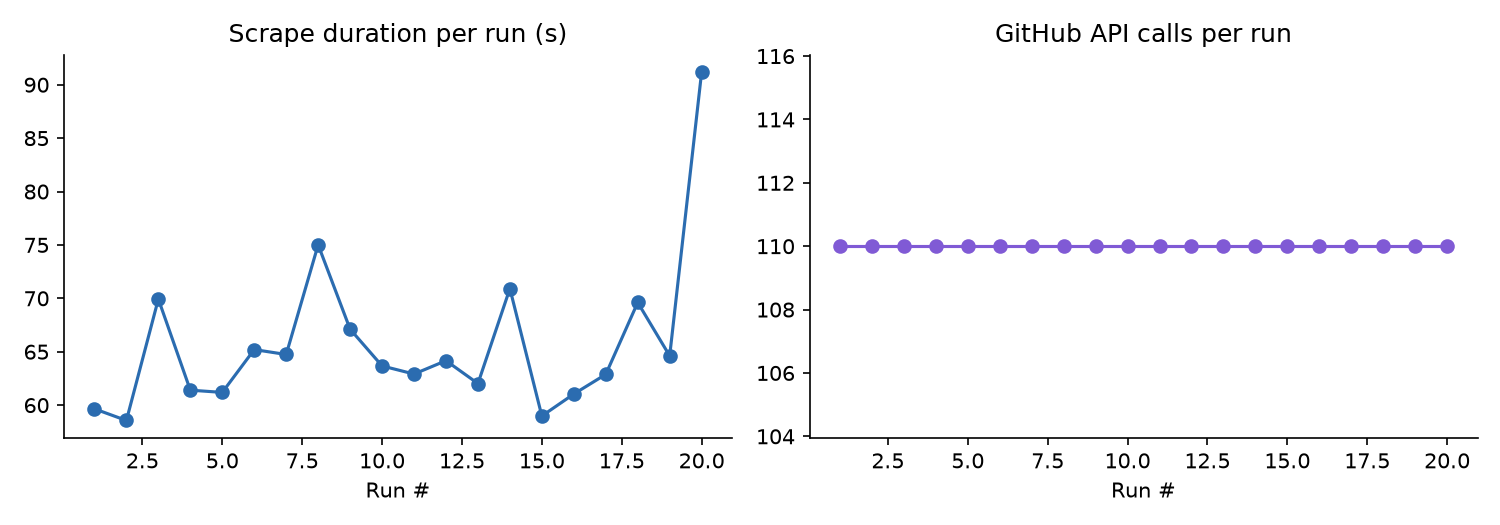
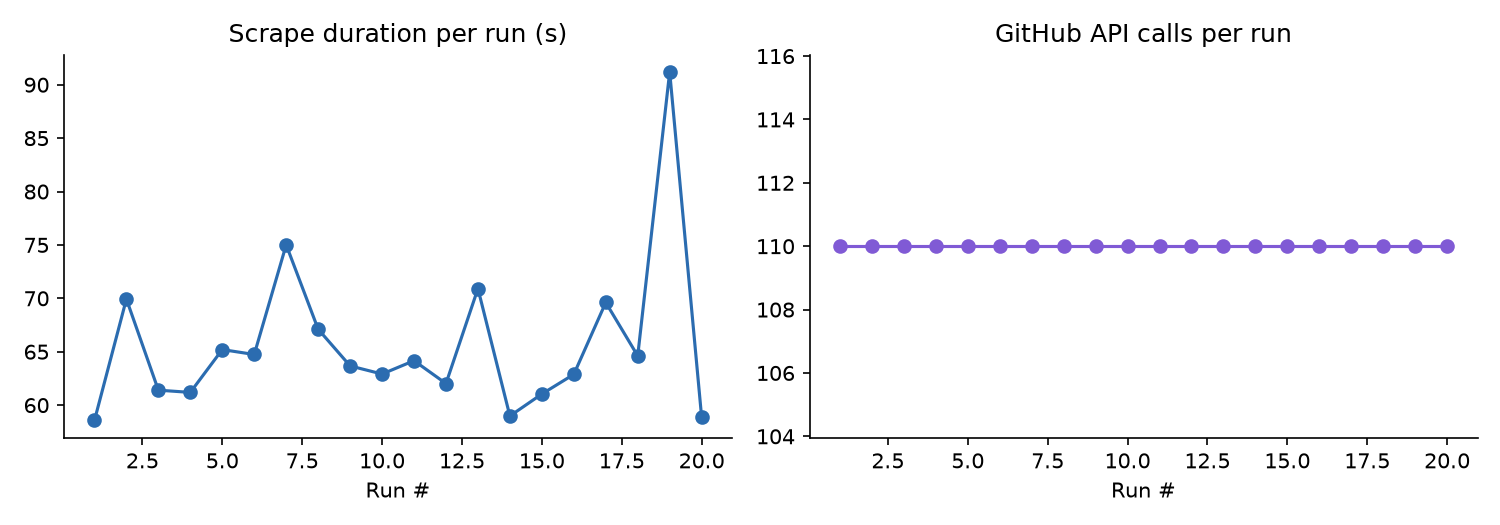
Weekly issue tracker refresh

Changed region(s): [[0.0613, 0.1219, 0.4907, 0.8229], [0.46, 0.7619, 0.4907, 0.8229]]

diff --git a/README.md b/README.md
@@ -81,7 +81,7 @@ See [CONTRIBUTING.md](CONTRIBUTING.md) for the full contributor workflow — inc
 
 <!-- TRACKER:START -->
 
-_Last updated: 2026-08-18 19:10 UTC_
+_Last updated: 2026-08-18 19:38 UTC_
 
 _Tracking **18** upstream repos, **385** relevant open issues._
 
@@ -296,7 +296,7 @@ _Tracking **18** upstream repos, **385** relevant open issues._
 
 <!-- METRICS:START -->
 
-_Last run: 2026-08-18 19:09 UTC, took **91.2s**, **110** GitHub API calls, **4890/5000** rate limit remaining._
+_Last run: 2026-08-18 19:37 UTC, took **58.9s**, **110** GitHub API calls, **4780/5000** rate limit remaining._
 
 ![Scrape metrics trend](assets/metrics_trend.png)
 
